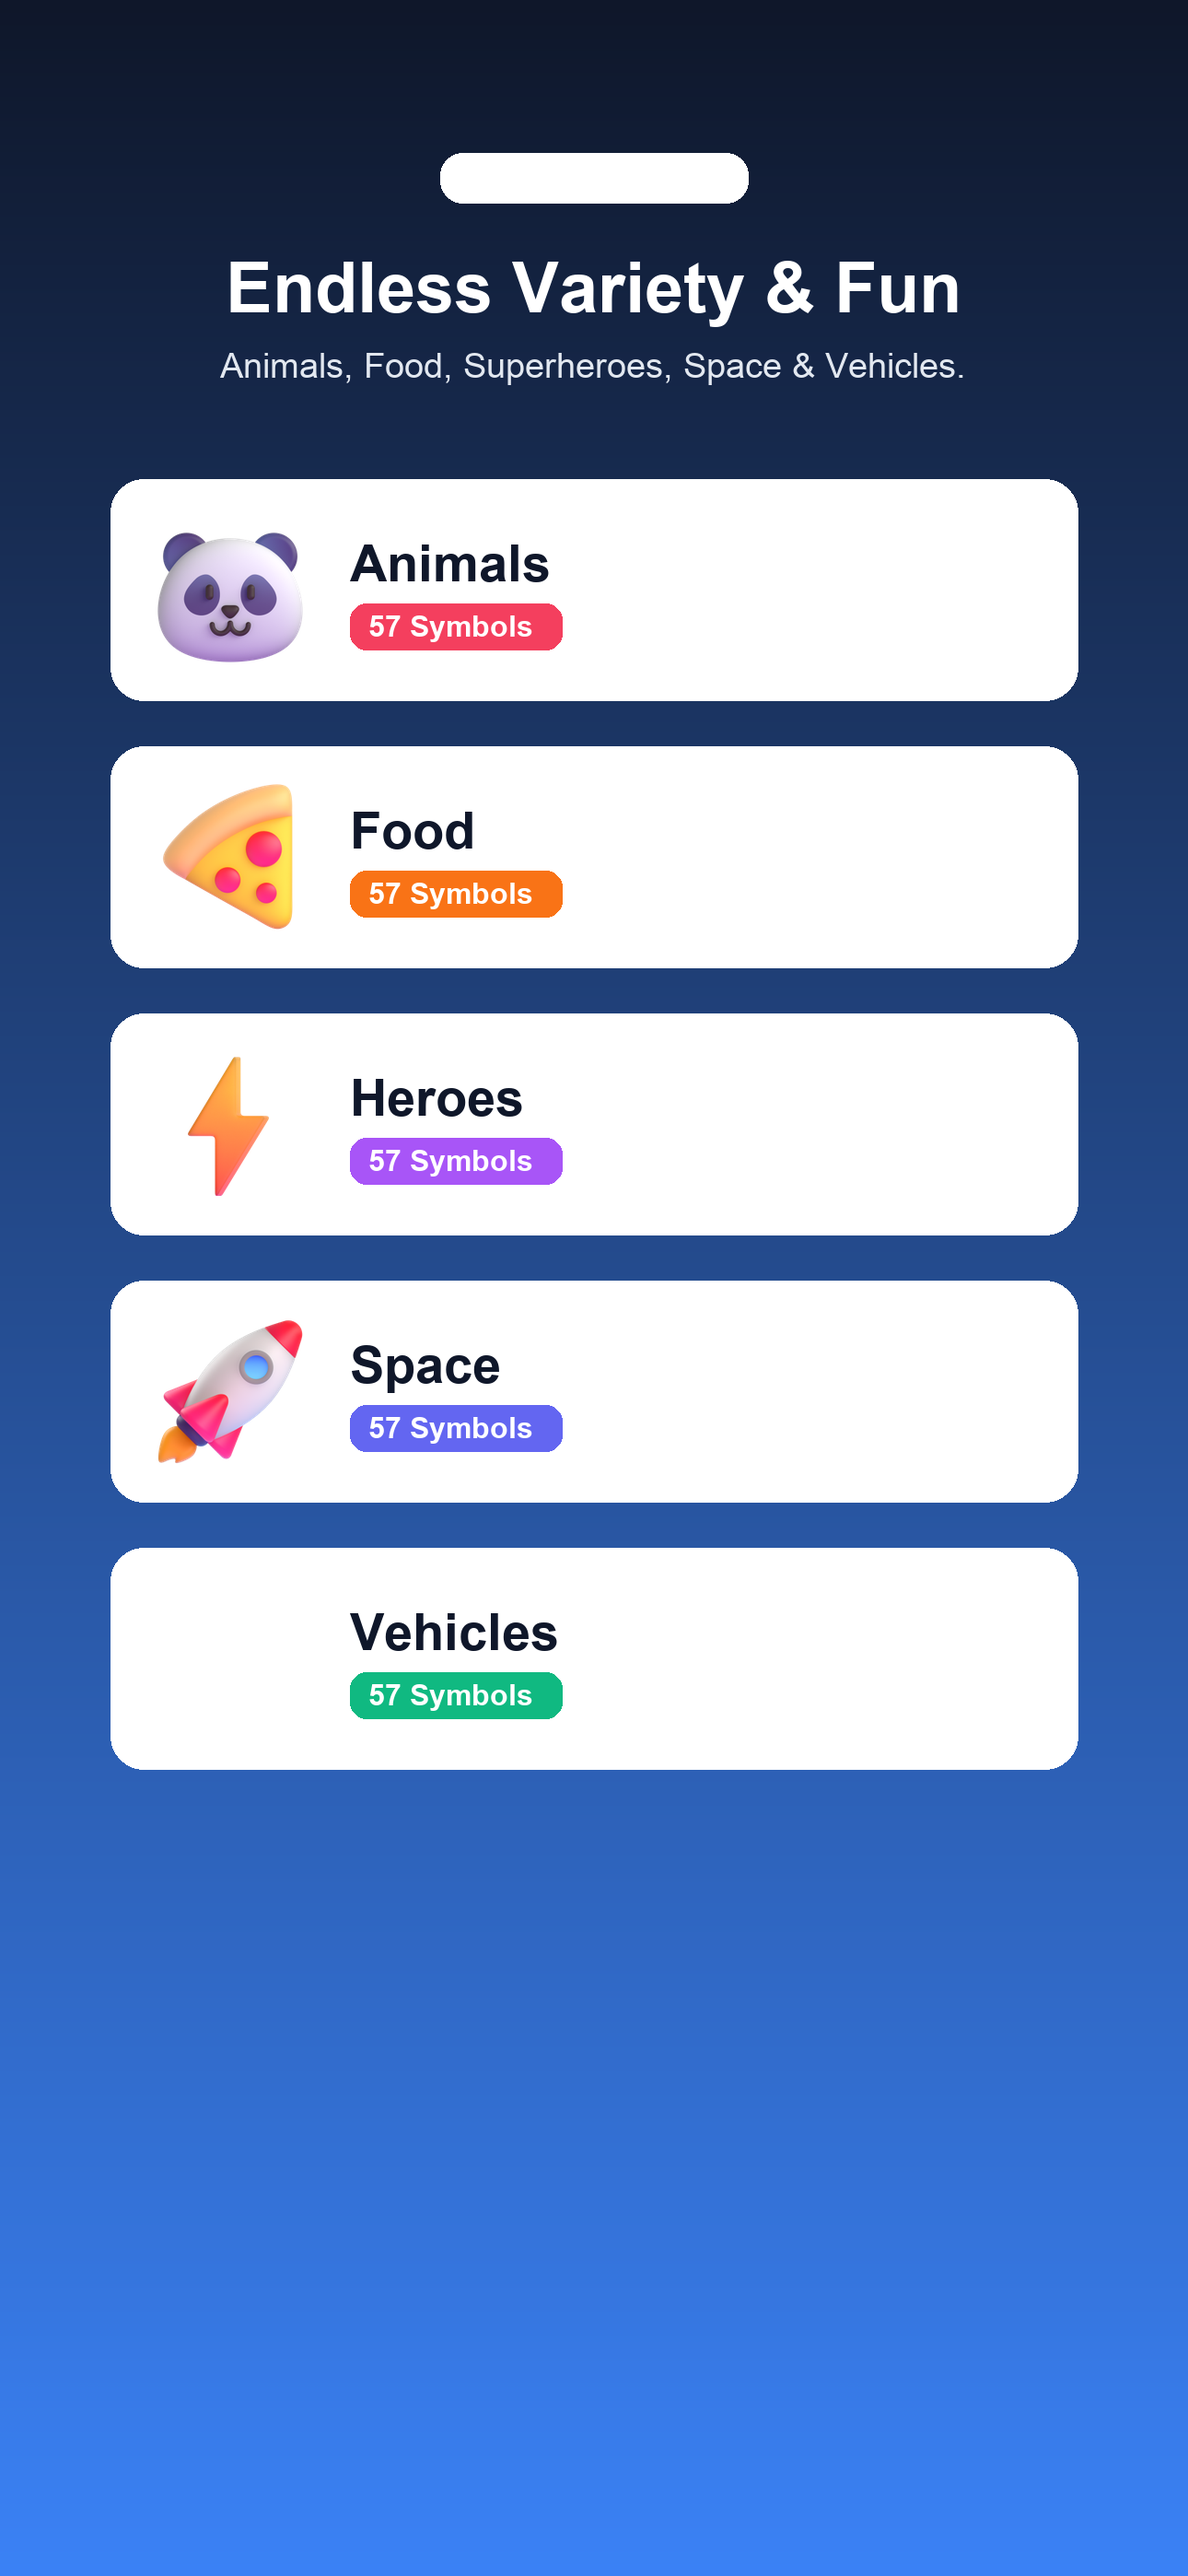
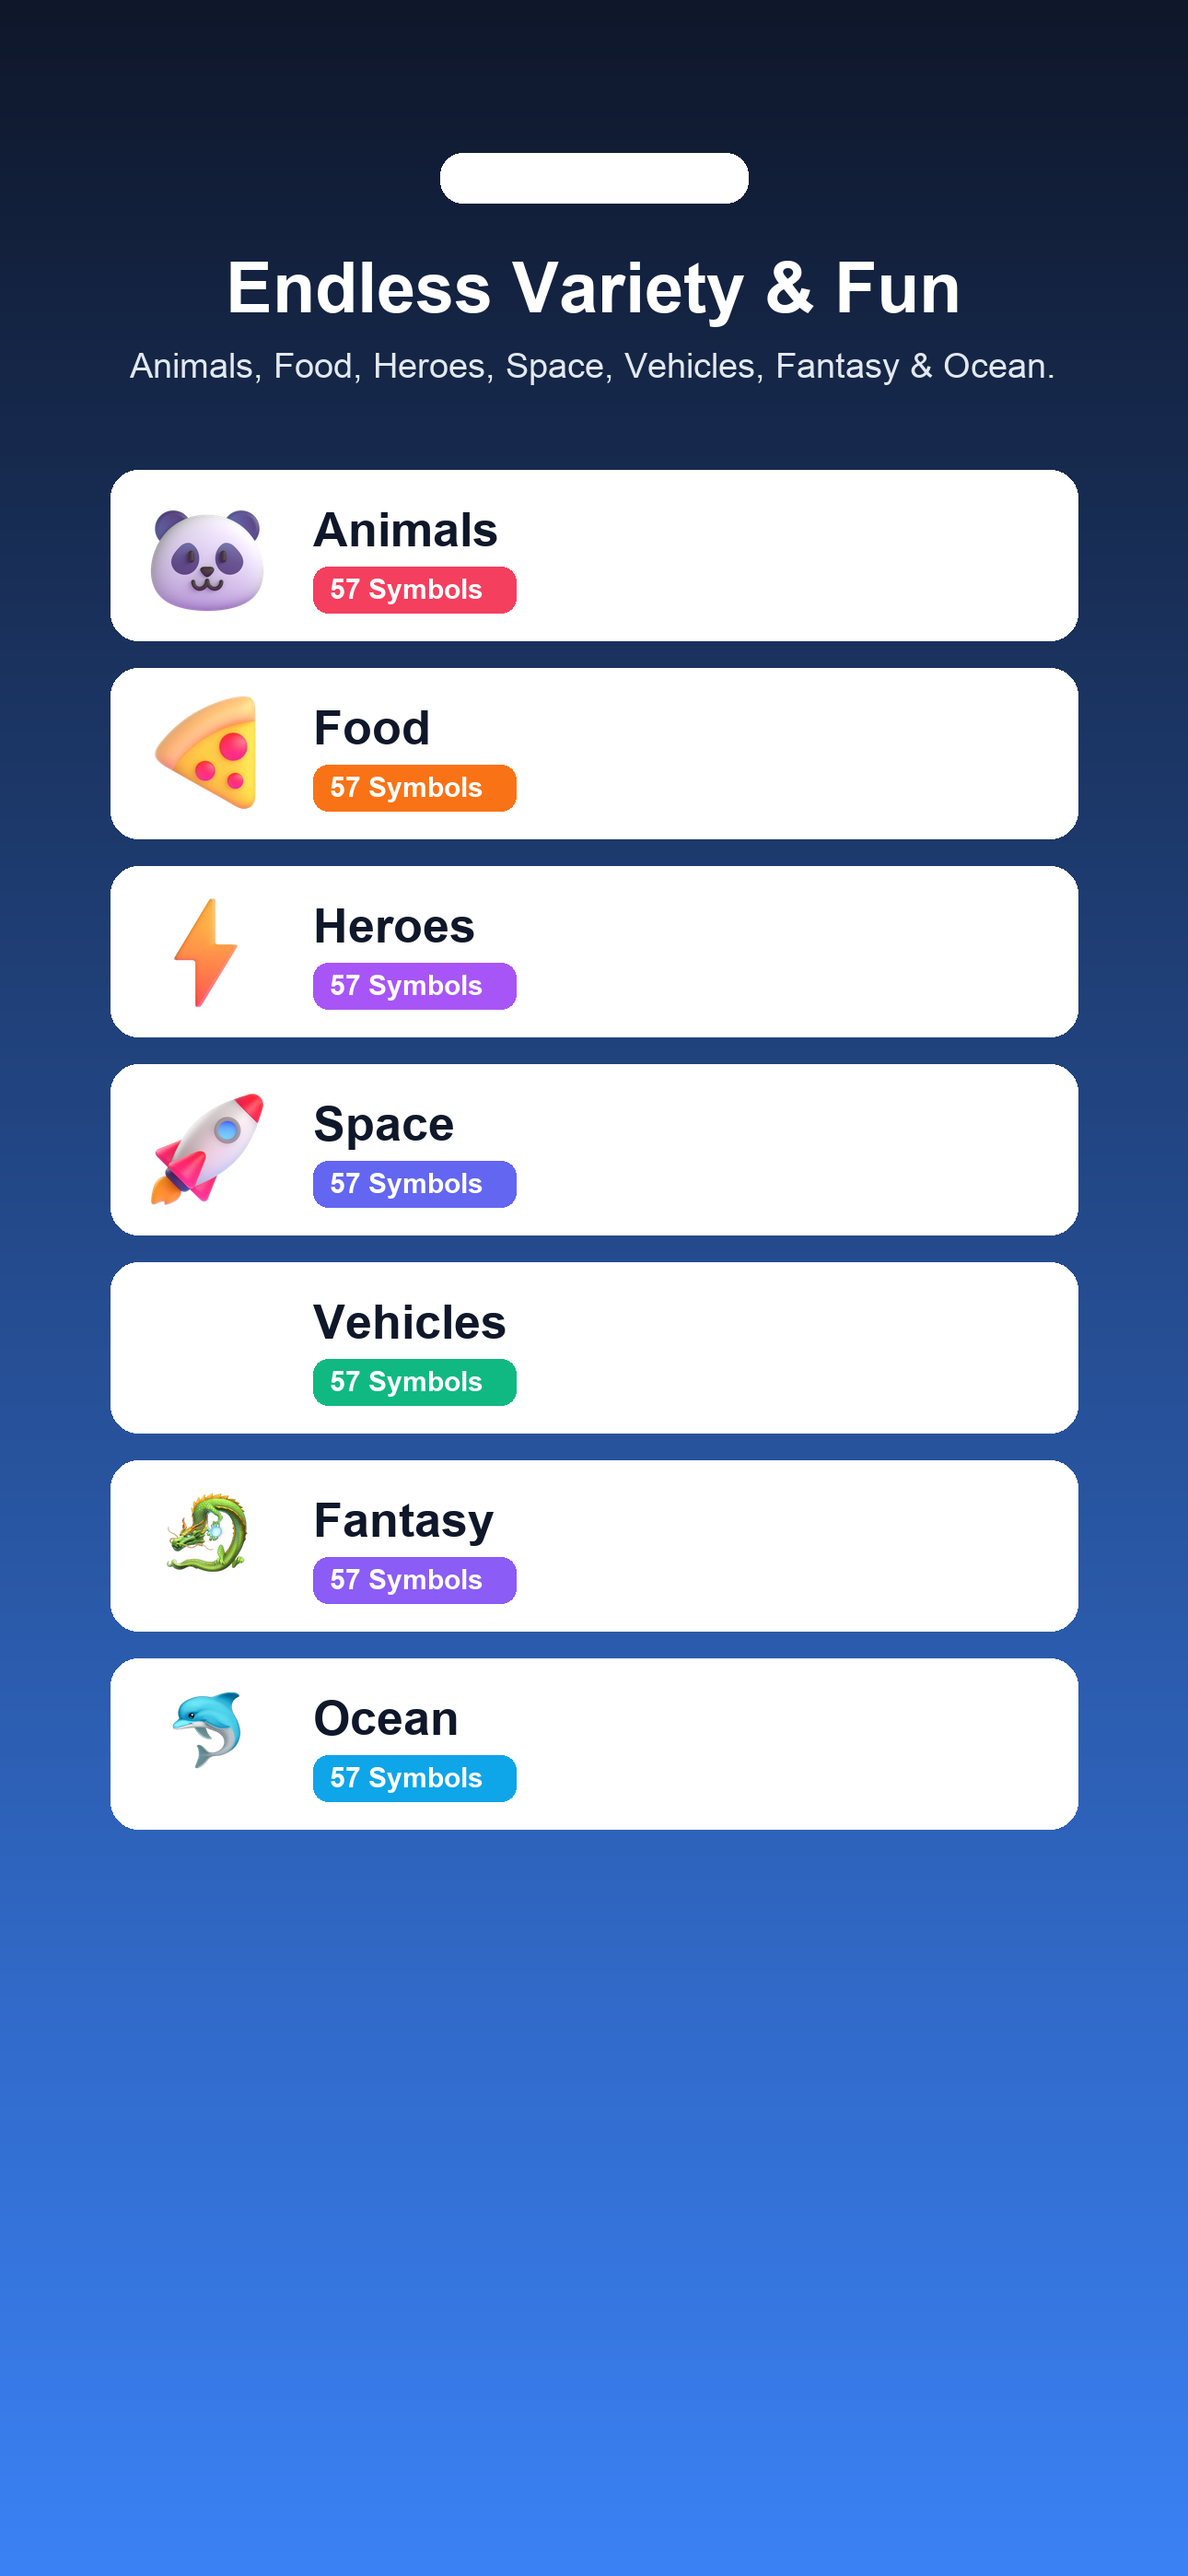
feat: complete 7-theme PDF suite, fix PWA service worker asset caching, and harden Web Audio engine

Changed region(s): [[0.093, 0.1245, 0.9302, 0.7157]]

diff --git a/web/index.html b/web/index.html
@@ -432,17 +432,17 @@
             <span class="pdf-icon">🧙</span>
             <div class="pdf-info">
               <h4>Magic & Fantasy Deck</h4>
-              <p>57 Cards • 8 Spells & Creatures/Card • Duplex Ready</p>
+              <p>57 Cards • 8 Spells & Creatures/Card • 22 Pages Duplex</p>
             </div>
-            <a href="pdf/chibi_animal_spot_it_cards_A4_duplex.pdf" download class="pill-btn pdf-dl-btn">Download PDF</a>
+            <a href="pdf/fantasy_spot_it_cards_A4_duplex.pdf" download class="pill-btn pdf-dl-btn">Download PDF</a>
           </div>
           <div class="pdf-card">
             <span class="pdf-icon">🌊</span>
             <div class="pdf-info">
               <h4>Ocean Wonders Deck</h4>
-              <p>57 Cards • 8 Marine Wonders/Card • Duplex Ready</p>
+              <p>57 Cards • 8 Marine Wonders/Card • 22 Pages Duplex</p>
             </div>
-            <a href="pdf/chibi_animal_spot_it_cards_A4_duplex.pdf" download class="pill-btn pdf-dl-btn">Download PDF</a>
+            <a href="pdf/ocean_spot_it_cards_A4_duplex.pdf" download class="pill-btn pdf-dl-btn">Download PDF</a>
           </div>
         </div>
       </div>

diff --git a/web/app.js b/web/app.js
@@ -902,7 +902,7 @@ function resetRoundTimer() {
       el.timerSeconds.textContent = state.timerCurrent;
 
       if (state.timerCurrent <= 3 && state.timerCurrent > 0) {
-        if (state.sfxEnabled) soundEngine.synthHat(soundEngine.ctx.currentTime, 0.4);
+        if (state.sfxEnabled) soundEngine.playTick();
       }
 
       if (state.timerCurrent <= 0) {
@@ -1318,6 +1318,11 @@ function setupEventListeners() {
         break;
       case 'h':
         triggerHint();
+        break;
+      case 'escape':
+        [el.rulesModal, el.settingsModal, el.victoryModal, el.qrModal, el.pdfModal].forEach(m => {
+          if (m) m.classList.add('hidden');
+        });
         break;
     }
   });

diff --git a/web/audio.js b/web/audio.js
@@ -48,8 +48,8 @@ class GameSoundEngine {
 
   ensureContext() {
     this.init();
-    if (this.ctx.state === 'suspended') {
-      this.ctx.resume();
+    if (this.ctx && this.ctx.state === 'suspended') {
+      this.ctx.resume().catch(() => {});
     }
   }
 
@@ -617,6 +617,12 @@ class GameSoundEngine {
     gain.connect(this.sfxGain);
     osc.start(now);
     osc.stop(now + 0.28);
+  }
+
+  playTick() {
+    this.ensureContext();
+    if (!this.ctx) return;
+    this.synthHat(this.ctx.currentTime, 0.4);
   }
 }
 

diff --git a/web/sw.js b/web/sw.js
@@ -1,12 +1,12 @@
 // Spot The Chibi Service Worker for Offline Play
-const CACHE_NAME = 'spot-the-chibi-v1';
+const CACHE_NAME = 'spot-the-chibi-v2';
 const ASSETS_TO_CACHE = [
   './',
   './index.html',
   './style.css',
   './app.js',
   './cards.js',
-  './sound.js',
+  './audio.js',
   './manifest.json',
   './animals/panda.png',
   './qrcode.png'

diff --git a/generate_app_store_screenshots.py b/generate_app_store_screenshots.py
@@ -112,6 +112,8 @@ LIGHTNING = os.path.join(BASE_DIR, "web", "heroes", "lightning.png")
 SHIELD = os.path.join(BASE_DIR, "web", "heroes", "shield.png")
 CAR = os.path.join(BASE_DIR, "web", "vehicles", "racing_car.png")
 PLANE = os.path.join(BASE_DIR, "web", "vehicles", "airplane.png")
+DRAGON = os.path.join(BASE_DIR, "web", "fantasy", "dragon.png")
+DOLPHIN = os.path.join(BASE_DIR, "web", "ocean", "dolphin.png")
 
 # SCREENSHOT 1: "SPOT THE MATCH!"
 def gen_ss1():
@@ -179,22 +181,24 @@ def gen_ss1():
     bg.convert("RGB").save(out_p, "PNG")
     shutil.copy(out_p, os.path.join(DESKTOP_DIR, "1_Spot_The_Match.png"))
 
-# SCREENSHOT 2: "5 VIBRANT THEMES"
+# SCREENSHOT 2: "7 VIBRANT THEMES"
 def gen_ss2():
-    print("Generating Screenshot 2: 5 Rich Themes...")
+    print("Generating Screenshot 2: 7 Rich Themes...")
     bg = create_gradient_bg((15, 23, 42), (59, 130, 246))
-    draw_header(bg, "5 RICH THEMES", "Endless Variety & Fun", "Animals, Food, Superheroes, Space & Vehicles.")
+    draw_header(bg, "7 RICH THEMES", "Endless Variety & Fun", "Animals, Food, Heroes, Space, Vehicles, Fantasy & Ocean.")
     
     themes = [
         ("Animals", PANDA, (244, 63, 94)),
         ("Food", PIZZA, (249, 115, 22)),
         ("Heroes", LIGHTNING, (168, 85, 247)),
         ("Space", ROCKET, (99, 102, 241)),
-        ("Vehicles", CAR, (16, 185, 129))
+        ("Vehicles", CAR, (16, 185, 129)),
+        ("Fantasy", DRAGON, (139, 92, 246)),
+        ("Ocean", DOLPHIN, (14, 165, 233))
     ]
     
-    start_y = 520
-    row_h = 290
+    start_y = 510
+    row_h = 215
     card_w = 1050
     draw = ImageDraw.Draw(bg)
     
@@ -202,21 +206,21 @@ def gen_ss2():
         ry = start_y + i * row_h
         rx = (W - card_w) // 2
         # Row card
-        draw.rounded_rectangle([rx, ry, rx + card_w, ry + 240], radius=36, fill=(255, 255, 255, 230), outline=(255, 255, 255, 255), width=4)
+        draw.rounded_rectangle([rx, ry, rx + card_w, ry + 185], radius=30, fill=(255, 255, 255, 230), outline=(255, 255, 255, 255), width=4)
         
         # Icon
         if os.path.exists(icon_p):
-            im = Image.open(icon_p).convert("RGBA").resize((180, 180), Image.Resampling.LANCZOS)
-            bg.alpha_composite(im, (rx + 40, ry + 30))
+            im = Image.open(icon_p).convert("RGBA").resize((140, 140), Image.Resampling.LANCZOS)
+            bg.alpha_composite(im, (rx + 35, ry + 22))
             
         # Title
-        font_th = get_font(56, bold=True)
-        draw.text((rx + 260, ry + 60), name, fill=(15, 23, 42), font=font_th)
+        font_th = get_font(52, bold=True)
+        draw.text((rx + 220, ry + 35), name, fill=(15, 23, 42), font=font_th)
         
         # 57 Symbols Badge
-        font_badge = get_font(32, bold=True)
-        draw.rounded_rectangle([rx + 260, ry + 135, rx + 490, ry + 185], radius=18, fill=color)
-        draw.text((rx + 280, ry + 142), "57 Symbols", fill=(255, 255, 255), font=font_badge)
+        font_badge = get_font(30, bold=True)
+        draw.rounded_rectangle([rx + 220, ry + 105, rx + 440, ry + 155], radius=16, fill=color)
+        draw.text((rx + 238, ry + 112), "57 Symbols", fill=(255, 255, 255), font=font_badge)
         
     out_p = os.path.join(SCREENSHOTS_DIR, "2_Five_Rich_Themes.png")
     bg.convert("RGB").save(out_p, "PNG")

diff --git a/build_extra_themes_pdf.py b/build_extra_themes_pdf.py
@@ -69,6 +69,32 @@ THEME_CONFIGS = [
         'bg_header': '#F0F9FF',
         'mascot': 'vehicles/car.png',
         'back_title': 'RIDE!'
+    },
+    {
+        'id': 'fantasy',
+        'name': 'MAGIC & FANTASY',
+        'sub': 'Dragons, Wizards, Castles, Spells & Legendary Beasts',
+        'folder': 'fantasy',
+        'symbols': get_theme_symbols('fantasy'),
+        'title': 'SPOT THE FANTASY! • 57 Cards Printable Game',
+        'pdf_path': 'PDFs/fantasy_spot_it_cards_A4_duplex.pdf',
+        'header_color': '#7C3AED',
+        'bg_header': '#F5F3FF',
+        'mascot': 'fantasy/dragon.png',
+        'back_title': 'FANTASY!'
+    },
+    {
+        'id': 'ocean',
+        'name': 'OCEAN WONDERS',
+        'sub': 'Dolphins, Sharks, Coral Reefs, Ships & Marine Life',
+        'folder': 'ocean',
+        'symbols': get_theme_symbols('ocean'),
+        'title': 'SPOT THE OCEAN! • 57 Cards Printable Game',
+        'pdf_path': 'PDFs/ocean_spot_it_cards_A4_duplex.pdf',
+        'header_color': '#0D9488',
+        'bg_header': '#F0FDFA',
+        'mascot': 'ocean/dolphin.png',
+        'back_title': 'OCEAN!'
     }
 ]
 
@@ -407,6 +433,15 @@ def build_pdf_for_theme(cfg):
     
     c.save()
     print(f"Successfully generated {cfg['pdf_path']}!")
+    import shutil
+    web_pdf_dir = 'web/pdf'
+    os.makedirs(web_pdf_dir, exist_ok=True)
+    dest = os.path.join(web_pdf_dir, os.path.basename(cfg['pdf_path']))
+    shutil.copy2(cfg['pdf_path'], dest)
+    print(f"Copied to {dest}")
 
-for cfg in THEME_CONFIGS:
-    build_pdf_for_theme(cfg)
+if __name__ == '__main__':
+    targets = sys.argv[1:] if len(sys.argv) > 1 else [cfg['id'] for cfg in THEME_CONFIGS]
+    for cfg in THEME_CONFIGS:
+        if cfg['id'] in targets:
+            build_pdf_for_theme(cfg)
